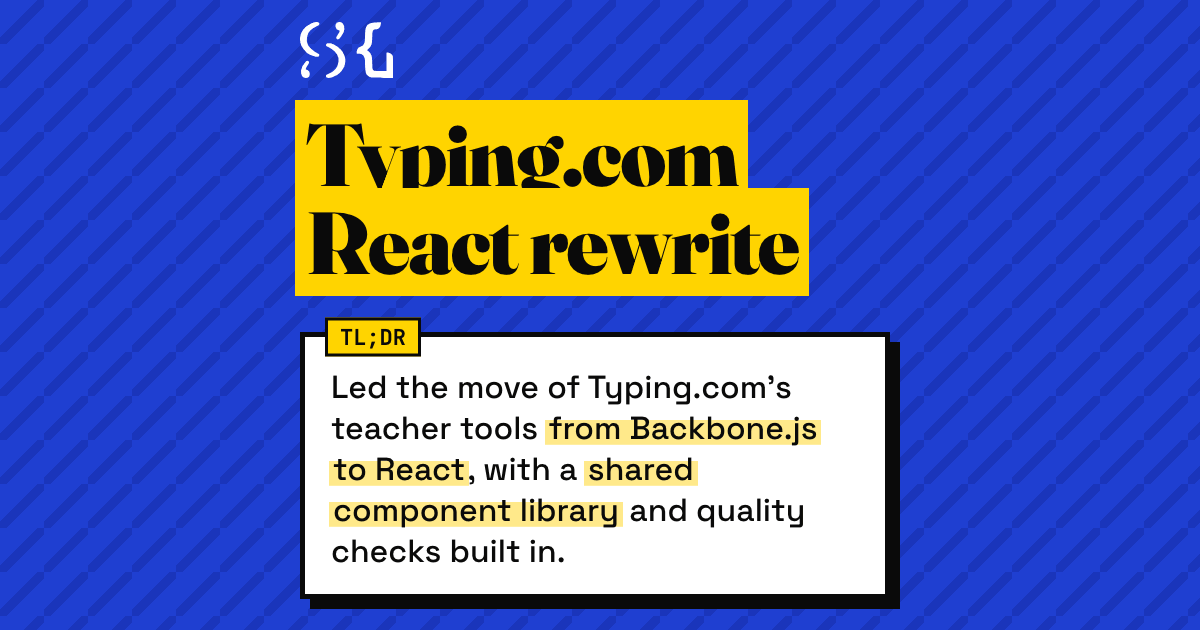
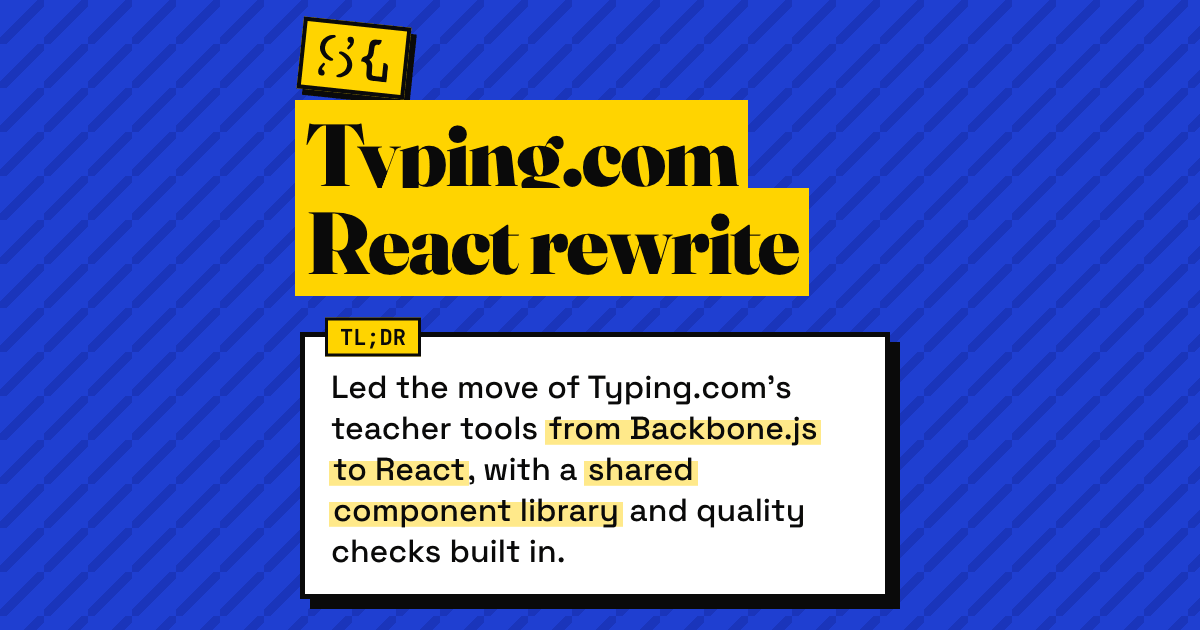
Cards and share images: bigger TL;DR, portrait B-9, SG mark on a sticker
The TL;DR text on the B-9sq card was about 30px and unreadable in the
LinkedIn feed. It is now about 47px, in a wider box with tighter padding;
the cover is cropped by the card edge to make room, never stretched.

Adds B-9, a 1080x1350 portrait version of B-9sq. All text and the sticker
sit inside the centered 1080x1080 safe square; only the cover can be cropped.

The owner prefers a logo sticker over his photo for a more professional
look and so the mark does not float loose. New shared SgSticker component:
the "13+ years" look (tilted yellow box, black border, offset shadow) with
the black SG mark inside. Used on B-9 and B-9sq, and through OgIdentity on
the post, page band and home share images plus og-default. On the home
image the mark sticker tilts the other way and the 13+ sticker moves down
so the two do not crowd. Share images regenerated; social-safe tests pass.

Changed region(s): [[0.2467, 0.0302, 0.37, 0.181]]

diff --git a/src/lib/cards.ts b/src/lib/cards.ts
@@ -54,7 +54,8 @@ export const CARDS: Card[] = [
   { ...base, id: "b8", set: "b", name: "B-8 Cobalt TL;DR", slug: "cobalt-tldr", status: "candidate", note: "B-5 with the longer TL;DR (adds the know-how line). Portrait 4:5.", h: 1350, safe: { top: 135, height: 1080 } },
   { ...base, id: "b8sq", set: "b", name: "B-8sq Cobalt TL;DR, square", slug: "cobalt-tldr-square", status: "posted", note: "B-8 redrawn at 1:1 so a LinkedIn crop cannot cut text. Safe box 1080x900.", safe: { top: 90, height: 900 } },
   { ...base, id: "b8p", set: "b", name: "B-8p Cobalt TL;DR, slightly portrait", slug: "cobalt-tldr-portrait", status: "candidate", note: "Same as B-8sq on a 1080x1200 canvas. Safe box 1080x900.", h: 1200, safe: { top: 150, height: 900 } },
-  { ...base, id: "b9sq", set: "b", name: "B-9sq Cobalt TL;DR, red pen cover, SG mark", slug: "cobalt-tldr-red-pen-square", status: "candidate", note: "B-8sq with the new red pen cover, and the SG mark alone in place of the photo, name and URL. Safe box 1080x900.", safe: { top: 90, height: 900 } },
+  { ...base, id: "b9sq", set: "b", name: "B-9sq Cobalt TL;DR, red pen cover, SG mark", slug: "cobalt-tldr-red-pen-square", status: "candidate", note: "B-8sq with the red pen cover, a much bigger TL;DR, and the SG mark on a yellow sticker in place of the photo, name and URL. Safe box 1080x900.", safe: { top: 90, height: 900 } },
+  { ...base, id: "b9", set: "b", name: "B-9 Cobalt TL;DR, red pen cover, SG sticker", slug: "cobalt-tldr-red-pen-portrait", status: "candidate", note: "B-9sq as a 4:5 portrait. All text sits in the centered 1080x1080 safe square; only the cover can be cropped.", h: 1350, safe: { top: 135, height: 1080 } },
 
   { ...base, id: "c1", set: "c", name: "C-1 Marked-up draft", slug: "marked-up-draft", status: "candidate", note: "Old lines struck out on a taped page, the answer on top. Cobalt desk." },
   { ...base, id: "c2", set: "c", name: "C-2 Options stack", slug: "options-stack", status: "candidate", note: "Title over a stack of swatch options, most crossed out, one circled." },
